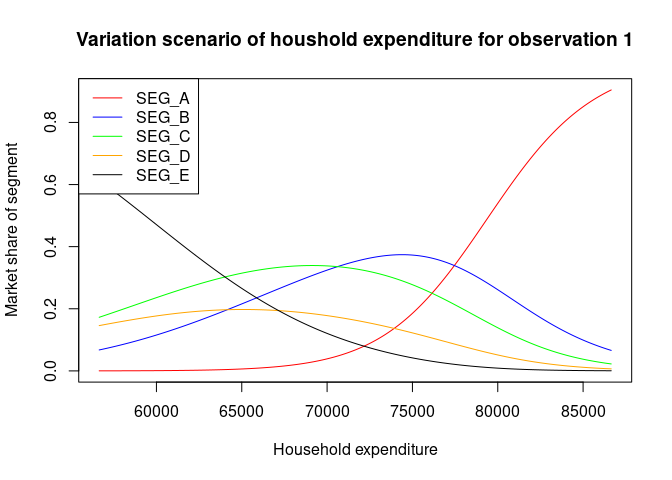
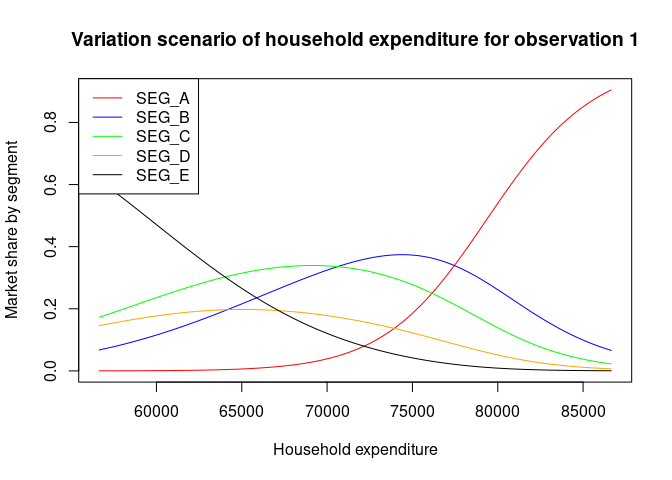
Update docs

Changed region(s): [[0.0938, 0.0625, 0.9688, 0.125], [0.0, 0.2812, 0.0312, 0.6875]]

diff --git a/README.md b/README.md
@@ -20,12 +20,17 @@ You can install the development version of CoDaImpact from
 devtools::install_github("LukeCe/CoDaImpact")
 ```
 
-## Example
+## Example of a Y-compositional model
 
-This is a basic example which shows you how to solve a common problem:
+Below we estimate a CoDa model where the dependent variable is a
+compositional and represents the market shares in different segments of
+the car market. To illustrate the influence of the
+`HOUSEHOLD_EXPENDITURE` on the market shares in each segment we use a
+variation scenario for one observation.
 
 ``` r
-library(CoDaImpact)
+library("CoDaImpact")
+data("car_market")
 
 model_car_segements <- lmCoDa(
   ilr(cbind(SEG_A, SEG_B, SEG_C, SEG_D, SEG_E)) ~
@@ -42,8 +47,8 @@ vs_exp2 <- VariationScenario(
 
 
 plot(x = vs_exp2$HOUSEHOLD_EXPENDITURE, y = vs_exp2$Y[,1],type = "l", col = "red",
-     main = "Variation scenario of houshold expenditure for observation 1",
-     xlab = "Household expenditure", ylab = "Market share of segment")
+     main = "Variation scenario of household expenditure for observation 1",
+     xlab = "Household expenditure", ylab = "Market share by segment")
 lines(x = vs_exp2$HOUSEHOLD_EXPENDITURE, y = vs_exp2$Y[,2],type = "l", col = "blue" )
 lines(x = vs_exp2$HOUSEHOLD_EXPENDITURE, y = vs_exp2$Y[,3],type = "l", col = "green")
 lines(x = vs_exp2$HOUSEHOLD_EXPENDITURE, y = vs_exp2$Y[,4],type = "l", col = "orange")
